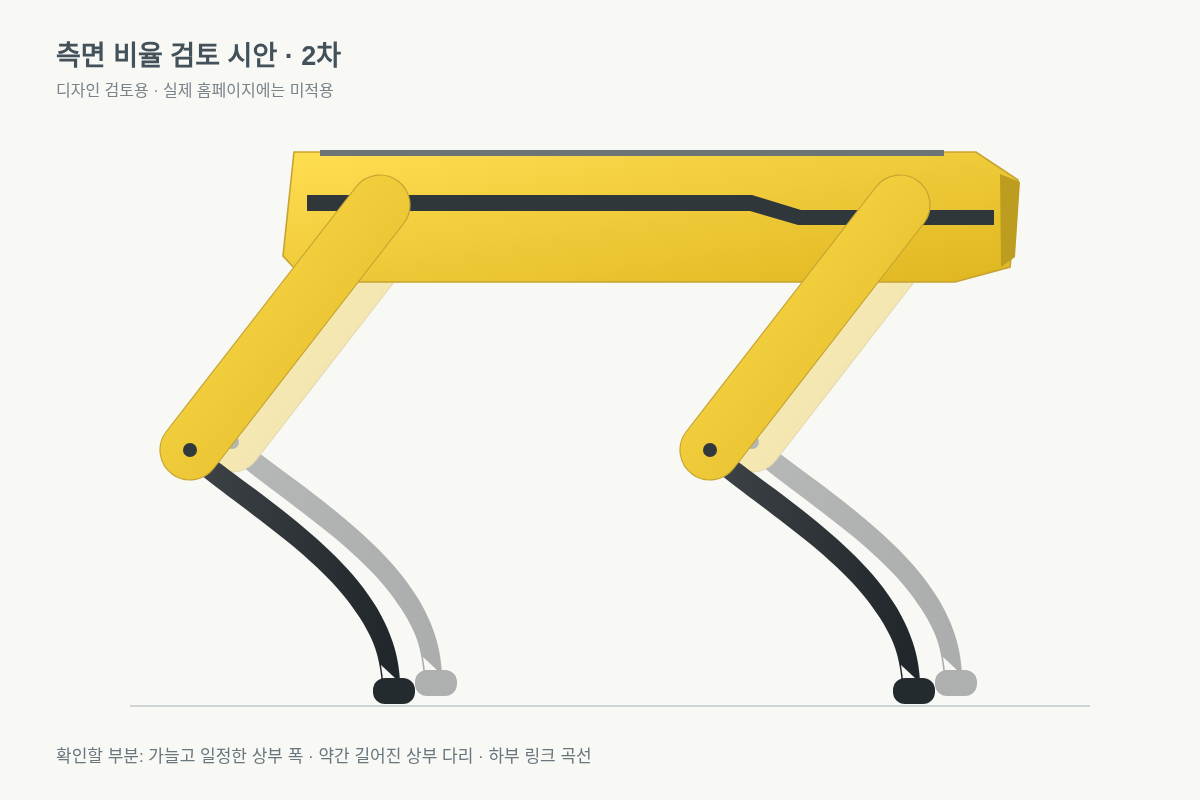
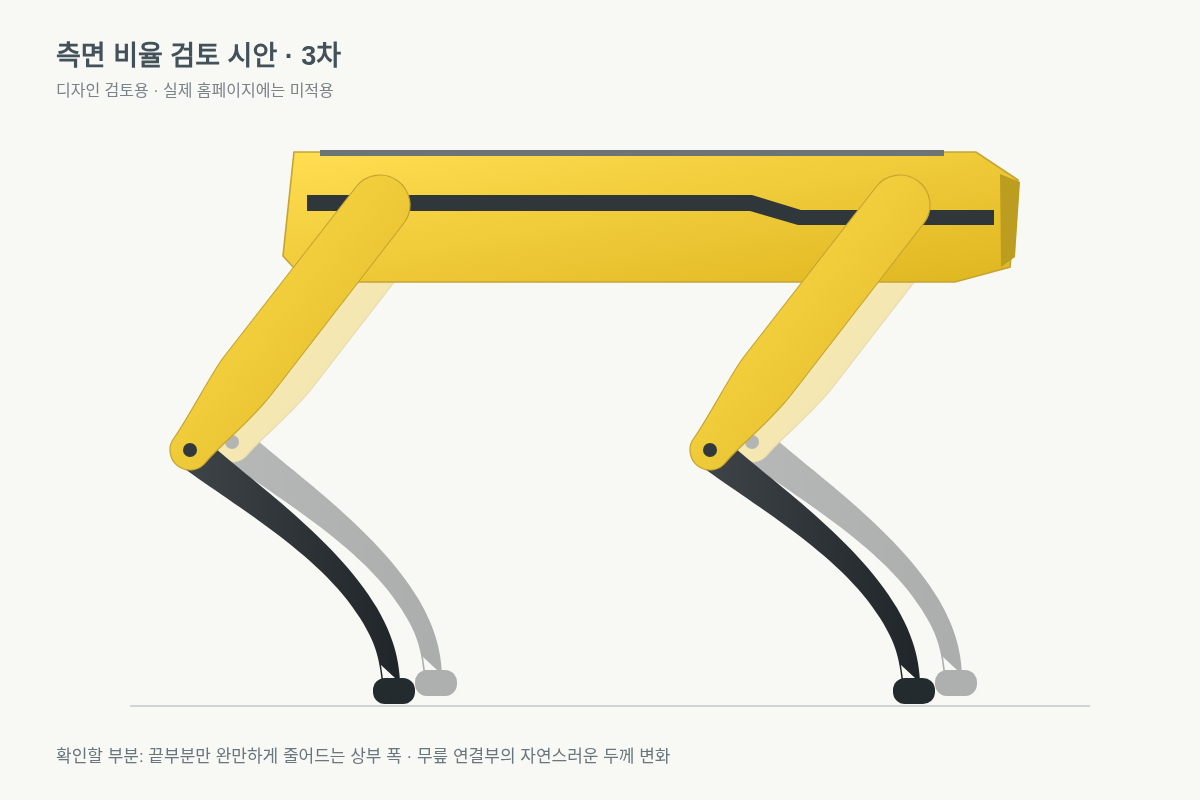
Soften knee thickness transition in robotdog proportion preview

diff --git a/previews/robotdog-proportions.html b/previews/robotdog-proportions.html
@@ -1,1 +1,1 @@
-<!doctype html><html lang="ko"><meta charset="utf-8"><meta name="viewport" content="width=device-width,initial-scale=1"><title>로봇독 비율 검토 시안</title><style>*{box-sizing:border-box}body{margin:0;background:#f8f8f5;color:#43515a;font-family:system-ui,sans-serif}main{max-width:1200px;margin:auto;padding:16px}header{display:flex;flex-wrap:wrap;align-items:center;justify-content:space-between;gap:8px}h1{font-size:20px;margin:0}p{font-size:14px;color:#68767e;line-height:1.5}img{display:block;width:100%;height:auto}a{color:#456d86;padding:8px;border:1px solid #ccd5d7;border-radius:6px;text-decoration:none;display:inline-block;margin:2px}</style><main><header><h1>로봇독 비율 검토 시안</h1><nav><a href="robotdog-proportions.png?v=2" target="_blank">이미지만 열기</a><a href="robotdog-proportions.svg?v=2" download>SVG 다운로드</a></nav></header><p>2차 시안: 노란 상부 다리의 폭을 일정하고 가늘게 바꾸고 길이를 조금 늘렸습니다. 실제 로봇 프로그램과 학습 데이터는 변경하지 않았습니다.</p><img src="robotdog-proportions.png?v=2" alt="낮은 어깨와 길고 가느다란 하부 다리를 가진 로봇독 측면 시안"></main></html>
+<!doctype html><html lang="ko"><meta charset="utf-8"><meta name="viewport" content="width=device-width,initial-scale=1"><title>로봇독 비율 검토 시안</title><style>*{box-sizing:border-box}body{margin:0;background:#f8f8f5;color:#43515a;font-family:system-ui,sans-serif}main{max-width:1200px;margin:auto;padding:16px}header{display:flex;flex-wrap:wrap;align-items:center;justify-content:space-between;gap:8px}h1{font-size:20px;margin:0}p{font-size:14px;color:#68767e;line-height:1.5}img{display:block;width:100%;height:auto}a{color:#456d86;padding:8px;border:1px solid #ccd5d7;border-radius:6px;text-decoration:none;display:inline-block;margin:2px}</style><main><header><h1>로봇독 비율 검토 시안</h1><nav><a href="robotdog-proportions.png?v=3" target="_blank">이미지만 열기</a><a href="robotdog-proportions.svg?v=3" download>SVG 다운로드</a></nav></header><p>3차 시안: 상부 다리는 대부분 일정한 폭을 유지하고, 무릎 가까운 끝부분만 완만하게 가늘어져 하부 다리와 자연스럽게 이어지도록 다듬었습니다. 실제 로봇 프로그램과 학습 데이터는 변경하지 않았습니다.</p><img src="robotdog-proportions.png?v=3" alt="낮은 어깨와 길고 가느다란 하부 다리를 가진 로봇독 측면 시안"></main></html>
